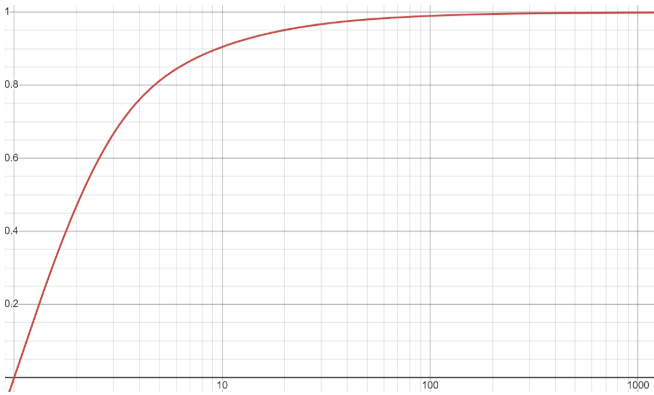
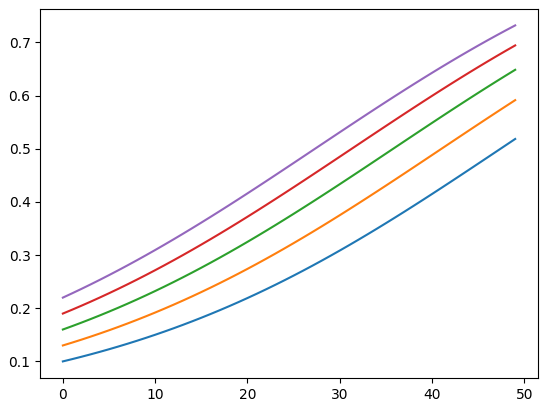
GITBOOK-41: No subject

diff --git a/part-1-blockchains-and-blockdags/chapter-1-bft-vs.-pow/bft-vs.-pow.md b/part-1-blockchains-and-blockdags/chapter-1-bft-vs.-pow/bft-vs.-pow.md
@@ -1,2 +1,62 @@
-# BFT Vs. PoW
+# PoS Vs. PoW
 
+I would like to conclude this section with some _opinions_ about how PoW compares to other, _intrinsic_ anti Sybil countermeasures. I chose to focus on the most ubiquitous one, proof-of-stake (PoS), but the criticism generalizes to any form of BFT that relies on intrinsic scarcity. In PoS, the scarcity is of the coin itself. There are many constellations for this kind of Sybilness, but the common ground is that the influence of any participant, and their compensation, is proportional to the amount of coin staked.
+
+I will now list some unsavory properties of PoS. For me, these are more than enough to conclude that PoS is _unsuitable_ for a decentralized network. However, I stress that while the phenomenon I describe are a matter of objective fact, the latter _interpretation_ is _not_. Many people see things differently and have interesting arguments to back their interpretations (though none that I personally found convincing).
+
+## Security Thresholds
+
+The first observation is that PoS just provides a _weaker level of security_.
+
+As we will see in the following chapters, PoW can provide _security_ assuming a rational majority. If $$51\%$$ of the miners work to maximize their profits, then we are guaranteed two properties:
+
+* Safety: the probability that a transaction reverts decreases exponentially with the number of blocks mined above it
+* Liveness: the number of blocks increases with time, no adversary can _stall_ the network
+
+BFT does not have probabilistic finality, but deterministic finality. This means that on one hand it can provide a slightly better safety: if a transaction is accepted, it is guaranteed never to revert. But the slight improvement in safety incurs a meaningful concession in liveness. It follows directly from the [$$3f+1$$ theorem](./) that any collusion of $$34\%$$ can stall the network.
+
+PoS networks typically deal with this using a technique called _slashing_: if a collusion of more than $$34\%$$ and less than $$50\%$$ attempts to disrupt the network, it could be detected, and a fine could be taken from the staked fund. This _decentivizes_ such an attack, but does not _prevent_ it.&#x20;
+
+To be honest, I consider this a completely reasonable security model. Yeah, it is in a sense weaker than that of PoW, but _that_ is not where the bones I want to pick are buried.
+
+## Long Live the King
+
+Imagine a PoW miner that has $$90\%$$ of the global hash rate. Obviously, they have complete control over what happens on the network, but how costly it is to maintain this control?
+
+If it is a popular network, the answer is _a lot_. Maintaining the mining operation requires huge utility costs in terms of electricity, network, hosting, and so on. And that's only where it starts. Because to maintain the advantage, the miner doesn't need just to keep mining, but to keep up with the hardware availability. The have to procure a majority of the newly manufactured hardware, or their advantage will eventually erode. This becomes even more pressing as new hardware becomes more performant, making the miner's current proportion shrink even faster.
+
+In contrast, a PoS entity with $$51\%$$ of the coin could maintain their advantage practically for free. All they have to do is to keep staking. The only loss here is lost-opportunity, but even that's arguable since first, they are still earning staking fees, second, if only a fraction of the coin is staked (as _should_ happen in networks that are actually used for things other than staking), then they only have to stake a similar fraction of their own share and third, they could use the opportunity to earn more and then using this money to buy more coin.
+
+The bottom line here is this: in PoW networks, maintaining control is ever-costly, since it requires holding the majority of a physical, external resource, that could increase in supply. In contrast, in PoS there is no way to force a majority holder to relinquish control.
+
+## The Rich Get Richer
+
+But why does someone accruing $$51\%$$ of the coin is even a concern? If the coin is sufficiently spread around, wouldn't this make it unreasonably expensive to purchase such a large portion, just like trying to buy all the mining machines for a PoW network will spike the price through the roof?
+
+The problem in PoS is that staking more means earning more. Let's see how the math works out.
+
+What makes the analysis a bit confusing is that the total supply changes. We will call the supply at the start of the round the _old_ supply, and the supply at the end of the round the _new_ supply.
+
+Say that the staking fee provides growth by $$\iota$$. That is, if you stake a fraction of $$f$$ of the coin, then after the round, the amount of coin you have is $$\iota\cdot f$$ of the _old_ supply. How much is this of the _new_ supply?
+
+If you hold $$f$$ of the coin, then the rest of the network holds $$1-f$$ of the coin. Now assume the honest network does not stake all of its coin, but some proportion of it, say $$\alpha$$, and say that you also stake only a fraction of your coin, say $$\beta$$. Then only a fraction $$\beta$$ of your fraction was increased, and in total, you hold $$(\iota\cdot\beta+ (1-\beta))\cdot f$$ of the old supply. Similarly, the rest of the network now holds $$(\iota\cdot\alpha + (1-\alpha))\cdot (1-f)$$. What is now your fraction of the _new_ supply? Well, we divide our supply by the total supply to obtain
+
+$$
+\frac{\left(\iota\cdot\beta+\left(1-\beta\right)\right)\cdot f}{\left(\iota\cdot\beta+\left(1-\beta\right)\right)\cdot f+\left(\iota\cdot\alpha+\left(1-\alpha\right)\right)\cdot\left(1-f\right)}=\frac{1}{1+\frac{\left(\iota-1\right)\left(\alpha-\beta\right)}{\left(\iota-1\right)\beta+1}\cdot\left(1-f\right)}f
+$$
+
+The left side is simply your coin (in old supply units) over _all_ coin (in the same units), the right side was arranged so that it will be clear under what conditions your fraction _increases_. For this, we need the ugly expression before $$f$$ to be larger than $$1$$, so we want its denominator to be smaller than $$1$$, and it is quite easy to see that this happens if and only if $$\beta > \alpha$$ (recall that since the minting fee is _positive_ we have that $$\iota > 1$$). On other words, if you stake a larger fraction than the rest of the network stakes, then your total fraction grows.
+
+By how much?
+
+Say that the staker stakes all of their coin, while the network consistently stakes a fraction of $$\alpha$$. Then if at the start of the round you held a fraction of $$f$$, by the end of the round, your fraction will incrase by a factor of $$1+\frac{\left(\iota-1\right)\left(1-\alpha\right)\left(1-f\right)}{\iota-\left(\iota-1\right)\left(1-\alpha\right)\left(1-f\right)}$$.
+
+We take Ethereum as a model. The staking fee is around 5% annually. Ethereum has $$206$$ rounds a day, so we set $$\iota = 1.05^{1/{(365\cdot 206)}}\approx 1.00000065$$.
+
+Currently around $$1/4$$ of Ethereum is constantly staked, but if we assume this includes our rich trying to get richer, we get that the remaining fraction is $$1/4-f$$. So we set $$a = 1/4 -f$$ where $$f$$ is the _current_ fraction of the rich.
+
+Assuming these conditions remain constant (not a very realistic assumption, but we are just trying to feel out the growth rate here), we can reiterate the formula above to see how the fraction of a collusion that currently holds a fraction $$f$$ of the coin for some $$f<1/4$$. I simulated $$50$$ years of accumulation for initial values of $$f=0.1,0.13,0.16,0.19,0.22$$, and these are the results
+
+<figure><img src="../../.gitbook/assets/image.png" alt=""><figcaption><p>Growth of a stake-holder staking their entire bag for 50 years assuming the parameters above</p></figcaption></figure>
+
+Now, 50 years is a _long_ time, even longer if you literally stake _all_ your money. But this growth is still alarming business. After all, we _are_ talking about systems with presumptions to replace at least a part of the backbone of global economy. Who can tell how much money it will be worth to coerce this system in the future.

diff --git a/supplementary-material/math/probability-theory/probability-spaces.md b/supplementary-material/math/probability-theory/probability-spaces.md
@@ -76,7 +76,7 @@ $$
 
 I will not prove the last equality, but I can provide a beautiful visual intuition:
 
-<figure><img src="../../../.gitbook/assets/image (1).png" alt=""><figcaption></figcaption></figure>
+<figure><img src="../../../.gitbook/assets/image (1) (1).png" alt=""><figcaption></figcaption></figure>
 
 We can now ask ourselves, say, what is the probability this would take _at most ten tries_, and compute that the result is
 
